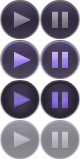
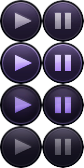
bug 21289 - update Feather for Pink Floyd (r=DesignerSteve) adjust various spacings fix seekbar and fix glitch in concert ticket visibility update faceplate graphics land new player controls relocate shuffle/repeat buttons and set right padding increase media control pane height to 61px increase def
git-svn-id: http://publicsvn.songbirdnest.com/client/trunk@18733 5aad4ff5-4b58-4159-ba3f-0e6328df4cad

diff --git a/feathers/purplerain/chrome/content/bindings/playerControls.css b/feathers/purplerain/chrome/content/bindings/playerControls.css
@@ -104,37 +104,37 @@ Imported by bindings.css or directly into feathers.
   /*play*/
   .sb-player-play-button-play > button,
   .sb-player-playpause-button-play > button {
-    -moz-image-region: rect(0px 40px 40px 0px);
+    -moz-image-region: rect(0px 42px 42px 0px);
   }
   .sb-player-play-button-play:hover > button,
   .sb-player-playpause-button-play:hover > button {
-    -moz-image-region: rect(40px 40px 80px 0px);
+    -moz-image-region: rect(42px 42px 84px 0px);
   }
   .sb-player-play-button-play:active > button,
   .sb-player-playpause-button-play:active > button {
-    -moz-image-region: rect(80px 40px 120px 0px);
+    -moz-image-region: rect(84px 42px 126px 0px);
   }
   .sb-player-play-button-play[disabled="true"] > button,
   .sb-player-playpause-button-play[disabled="true"] > button {
-    -moz-image-region: rect(120px 40px 160px 0px);
+    -moz-image-region: rect(126px 42px 168px 0px);
     opacity: 1.0 !important;
   }
   /*pause*/
   .sb-player-pause-button-pause > button,
   .sb-player-playpause-button-pause > button {  
-    -moz-image-region: rect(0px 80px 40px 40px);
+    -moz-image-region: rect(0px 84px 42px 42px);
   }
   .sb-player-pause-button-pause:hover > button,
   .sb-player-playpause-button-pause:hover > button { 
-    -moz-image-region: rect(40px 80px 80px 40px);
+    -moz-image-region: rect(42px 84px 84px 42px);
   }
   .sb-player-pause-button-pause:active > button,
   .sb-player-playpause-button-pause:active > button{
-    -moz-image-region: rect(80px 80px 120px 40px);
+    -moz-image-region: rect(84px 84px 126px 42px);
   }
   .sb-player-pause-button-pause[disabled="true"] > button,
   .sb-player-playpause-button-pause[disabled="true"] > button { 
-    -moz-image-region: rect(120px 80px 160px 40px);
+    -moz-image-region: rect(126px 84px 168px 42px);
     opacity: 1.0 !important;
   }
 
@@ -143,16 +143,16 @@ Imported by bindings.css or directly into feathers.
 
 .sb-player-stop-button-stop > button {
   list-style-image: url(chrome://songbird/skin/media-control-pane/button-stop.png); 
-  -moz-image-region: rect(0px 40px 40px 0px);
+  -moz-image-region: rect(0px 42px 42px 0px);
 }
 .sb-player-stop-button-stop:hover > button { 
-  -moz-image-region: rect(40px 40px 80px 0px);
+  -moz-image-region: rect(42px 42px 84px 0px);
 }
 .sb-player-stop-button-stop:active > button {
-  -moz-image-region: rect(80px 40px 120px 0px);
+  -moz-image-region: rect(84px 42px 126px 0px);
 }
 .sb-player-stop-button-stop[disabled="true"] > button { 
-  -moz-image-region: rect(120px 40px 160px 0px);
+  -moz-image-region: rect(126px 42px 168px 0px);
 }
 
 
@@ -164,19 +164,19 @@ sb-player-forward-button {
 }
 sb-player-back-button,
 sb-player-forward-button {
-  -moz-image-region: rect(0px 40px 40px 0px);
+  -moz-image-region: rect(0px 42px 42px 0px);
 }
 sb-player-back-button:hover,
 sb-player-forward-button:hover { 
-  -moz-image-region: rect(40px 40px 80px 0px);
+  -moz-image-region: rect(42px 42px 84px 0px);
 }
 sb-player-back-button:active,
 sb-player-forward-button:active { 
-  -moz-image-region: rect(80px 40px 120px 0px);
+  -moz-image-region: rect(84px 42px 126px 0px);
 }
 sb-player-back-button[disabled="true"],
 sb-player-forward-button[disabled="true"] { 
-  -moz-image-region: rect(120px 40px 160px 0px);
+  -moz-image-region: rect(126px 42px 168px 0px);
   opacity:1.0 !important;
 }
 

diff --git a/feathers/purplerain/chrome/skin/colors.css b/feathers/purplerain/chrome/skin/colors.css
@@ -500,15 +500,20 @@ sb-sys-titlebar {
 #sb-sys-titlebar-primary-content {
   -moz-box-align:center !important;
 }
+#faceplate-tool-bar  {
+}
 #faceplate-tool-bar > * {
-  margin:2px 0px 2px 4px;
+  margin:0px 2px 2px 2px;
 }
 #faceplate-tool-bar > sb-nowplaying-rating {
-  margin:0px 0px 0px 4px !important;
+  margin:0px 0px 0px 1px !important;
 }
 #faceplate-tool-bar > sb-nowplaying-rating > sb-rating {
+  min-height: 18px;
 }
-
+#faceplate_seekbar_box {
+  margin-top: 1px;
+}
 
 
 #control_pane_box {
@@ -524,23 +529,23 @@ sb-sys-titlebar {
   margin:0 1px;
 }
 #shuffle_repeat_box > .sb-player-button {
-  margin:0px 1px 0px 2px;
+  margin:0px 1px 0px 0px;
 }
 #volume_box {
   padding:0 6px 0px 1px;
   -moz-box-pack: center;
   -moz-box-align: center;
-  min-height:52px;
+  min-height:60px;
 }
 #control_pane {
-  padding:0 5px;
+  padding:0 11px 0px 4px;
 }
 
 #control_pane_box > .hook > .left,
 #control_pane_box > .hook > .right,
 #control_pane_box > .hook > .middle {
   min-width:16px;
-  min-height:52px;
+  min-height:60px;
 }
 
 
@@ -589,7 +594,7 @@ treechildren::-moz-tree-twisty(open) {
 
 #faceplate_box {
   padding:2px 8px;
-  min-height:52px;
+  min-height:60px;
 }
 #faceplate > .hook > .left,
 #faceplate > .hook > .middle,
@@ -682,8 +687,8 @@ notification,
 #content_player_wrapper[playercontrols='top'] #control_pane_box > .hook > .left,
 #content_player_wrapper[playercontrols='top'] #control_pane_box > .hook > .right,
 #content_player_wrapper[playercontrols='top'] #control_pane_box > .hook > .middle {
-  min-height: 53px;
-  max-height: 53px;
+  min-height: 61px;
+  max-height: 61px;
 }
 #content_player_wrapper[playercontrols='top'] #servicepane-status-bar-box,
 #content_player_wrapper[playercontrols='top'] #status-bar-box {

diff --git a/feathers/purplerain/chrome/skin/images.css b/feathers/purplerain/chrome/skin/images.css
@@ -373,7 +373,8 @@ notification[type="critical"],
   min-height:44px;
   background-image: url('chrome://songbird/skin/media-control-pane/bg-faceplate-inactive-splash.png');
   background-repeat:no-repeat;
-  background-position:center center;
+  background-position:right center;
+  margin-right: 10px;
 }
 #faceplate-inactive-splash-prince {
   min-height:44px;

diff --git a/feathers/purplerain/chrome/content/bindings/faceplate.css b/feathers/purplerain/chrome/content/bindings/faceplate.css
@@ -60,10 +60,11 @@ Imported by bindings.css or directly into feathers.
 
 #track_info {
   min-height:20px;
-  padding:3px 8px 1px 8px;
+  padding:2px 8px 1px 8px;
 }
 .faceplate-seekinfo-box {
   min-height:16px;
+  margin-top: 5px;
   padding:0px 8px 4px 8px;
 }
 sb-player-timeelapsed-label,

diff --git a/extensions/lastfm/chrome/skin/overlay.css b/extensions/lastfm/chrome/skin/overlay.css
@@ -28,8 +28,8 @@
 
 /* the faceplate */
 #lastfmFaceplate {
-  margin: 0px !important;
-  padding: 1px 4px !important;
+  margin: 0px 2px 0px 2px !important;
+  padding: 0px 2px 0px 4px !important;
   max-height: 18px !important;
   
   background-image:url('bg-faceplate-buttons.png');

diff --git a/feathers/purplerain/chrome/content/css/mainplayer.css b/feathers/purplerain/chrome/content/css/mainplayer.css
@@ -44,7 +44,7 @@ window#mainplayer {
   min-width:640px;
   min-height:480px;
   width:1000px;
-  height:720px;
+  height:728px;
 }
 
 /* hide the overflow here so that as the window shrinks below a certain size

diff --git a/extensions/concerts/chrome/skin/sps.css b/extensions/concerts/chrome/skin/sps.css
@@ -8,4 +8,7 @@
 
 #faceplate-artist-on-tour-icon {
 	cursor: pointer;
+  max-height: 16px;
+  min-height: 16px;
+  margin: 1px 2px 1px 2px;
 }
